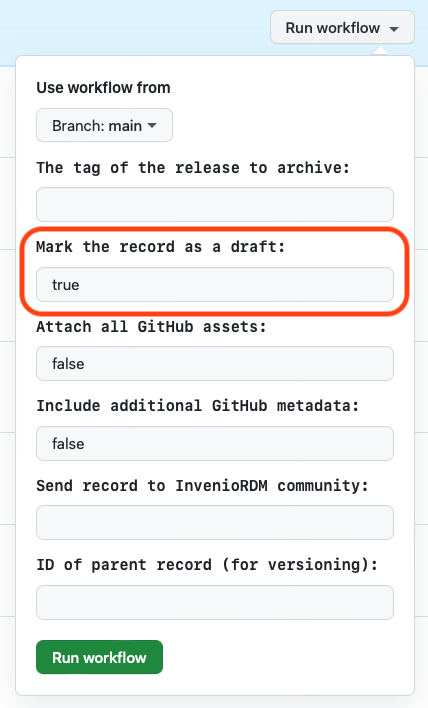
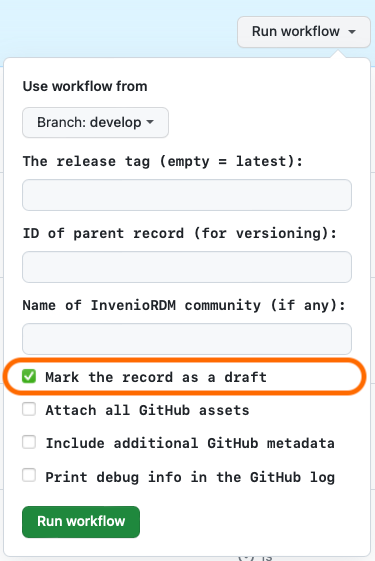
docs: update screenshots and other info

Changed region(s): [[0.0, 0.0, 1.0, 1.0], [0.968, 0.0303, 0.9973, 0.0606]]

diff --git a/docs/gha-usage.md b/docs/gha-usage.md
@@ -10,7 +10,7 @@ You can run the IGA GitHub Action workflow manually in two ways: from the web pa
 
 1. Go to the _Actions_ tab in your repository and click on the name of the workflow in the sidebar on the left<figure><img src="_static/media/github-run-workflow.png" width="70%"></figure>
 2. Click the <kbd>Run workflow</kbd> button shown above in the right-hand side of the blue strip.
-3. A form will appear; in this form, you can set the IGA input parameters, including the tag of the release to send to InvenioRDM, whether to make the release a draft, and more. All these options except the first (the release tag) correspond to the [input parameters](#input-parameters) described below. The release tag is normally obtained automatically by virtue of the fact that IGA runs when a new release is made, but when running the workflow manually, you can provide a tag explicitly. If you leave it blank, IGA will use the latest release in the repository.<figure><img src="_static/media/github-workflow-options.png" width="30%"></figure>
+3. A form will appear; in this form, you can set the IGA input parameters, including the tag of the release to send to InvenioRDM, whether to make the release a draft, and more. All these options except the first (the release tag) correspond to the [input parameters](#input-parameters) described below. The release tag is normally obtained automatically by virtue of the fact that IGA runs when a new release is made, but when running the workflow manually, you are given an extra option to provide a tag explicitly. If you leave the field blank, IGA will use the latest release in the repository.<figure><img src="_static/media/github-workflow-options.png" width="30%"></figure>
 4. Click the green <kbd>Run workflow</kbd> button near the bottom
 5. Refresh the web page and a new line will be shown named after your workflow file<figure><img src="_static/media/github-running-workflow.png" width="90%"></figure>
 6. Click that line to see the IGA workflow progress and results

diff --git a/docs/quick-start.md b/docs/quick-start.md
@@ -73,7 +73,7 @@ After setting up the workflow and storing the InvenioRDM token in your repositor
 
 1. Go to the _Actions_ tab in your repository and click on the name of the workflow in the sidebar on the left<figure><img src="_static/media/github-run-workflow.png" width="70%"></figure>
 2. Click the <kbd>Run workflow</kbd> button in the right-hand side of the blue strip
-3. In the pull-down, change the value of "Mark the record as a draft" to `true`<figure><img src="_static/media/github-workflow-options-circled.png" width="30%"></figure>
+3. In the pull-down, click the checkbox for "Mark the record as a draft"<figure><img src="_static/media/github-workflow-options-circled.png" width="30%"></figure>
 4. Click the green <kbd>Run workflow</kbd> button near the bottom
 5. Refresh the web page and a new line will be shown named after your workflow file<figure><img src="_static/media/github-running-workflow.png" width="90%"></figure>
 6. Click that line to see the IGA workflow progress and results
